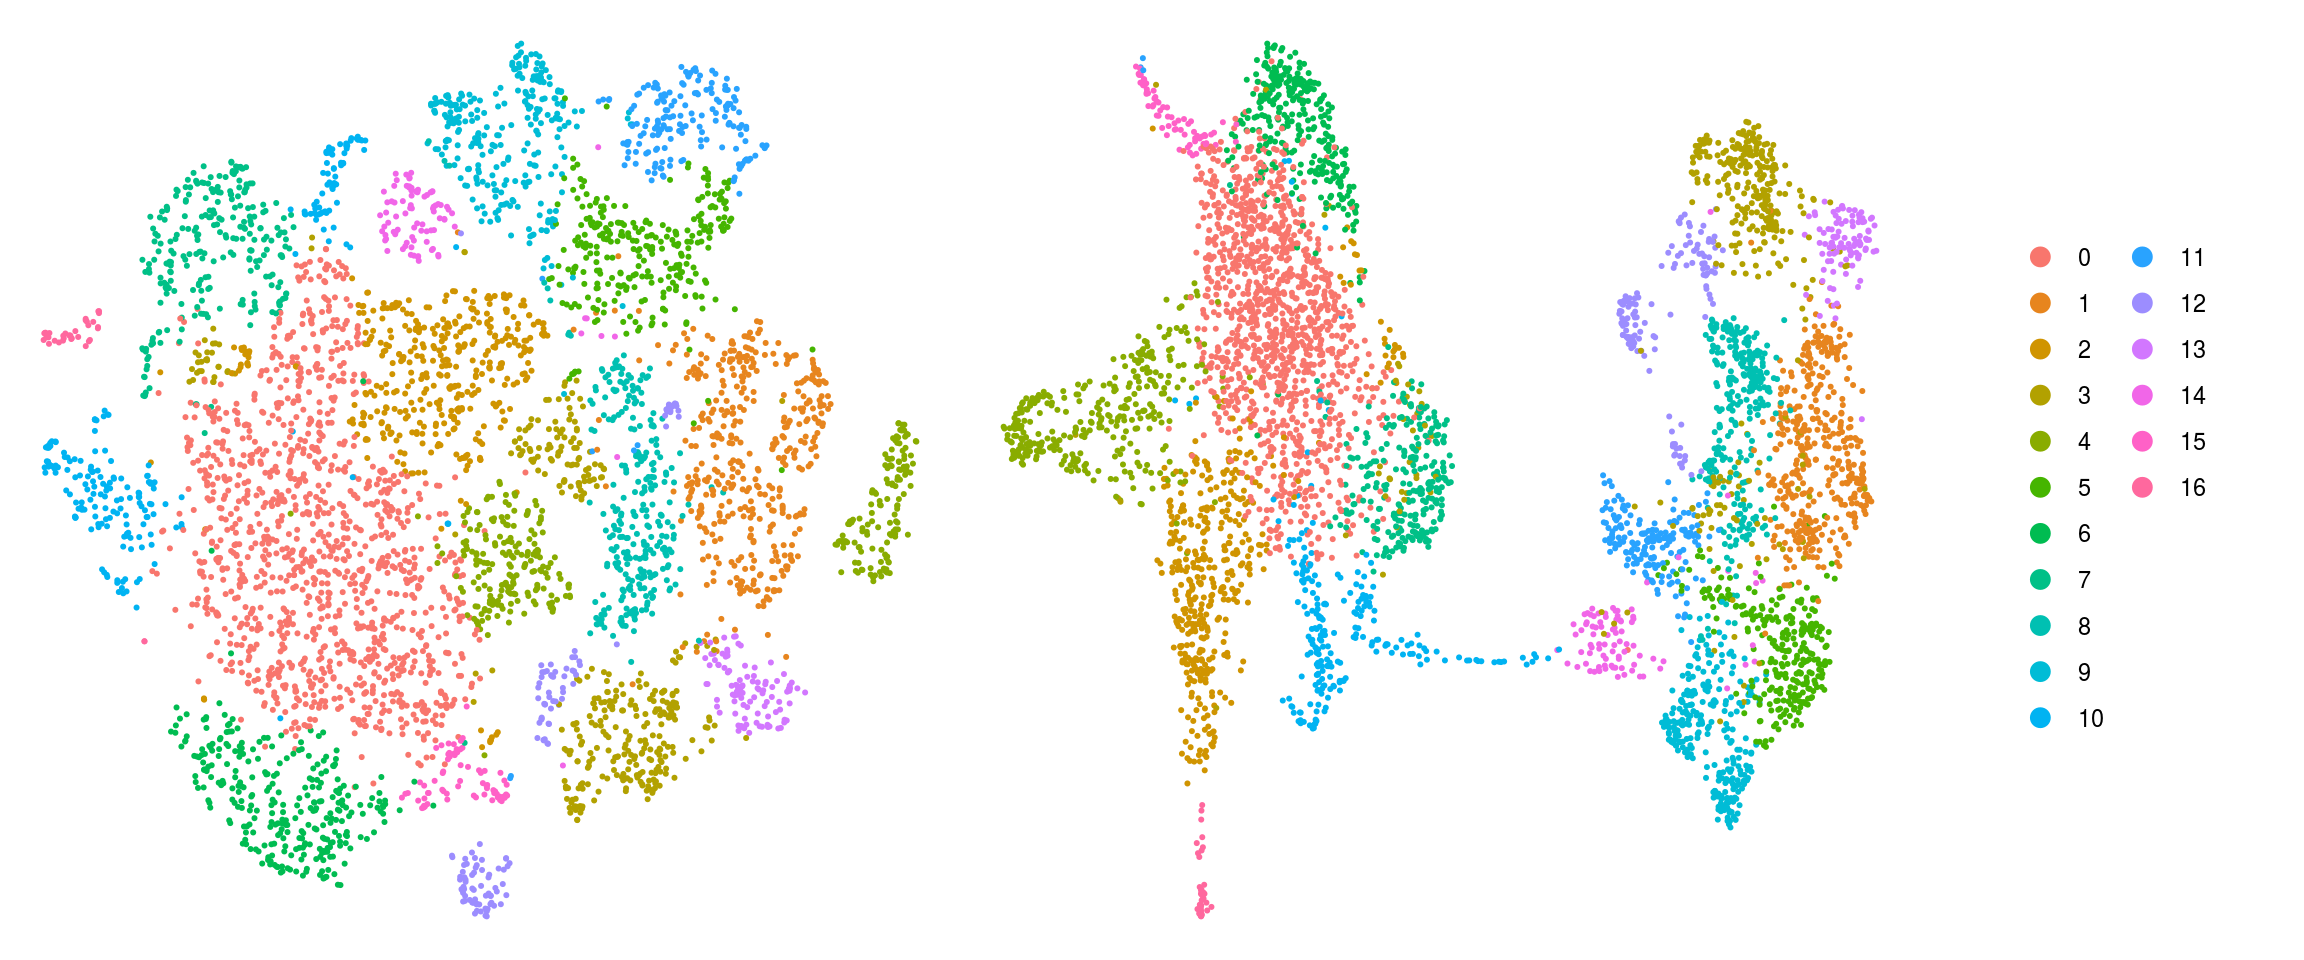
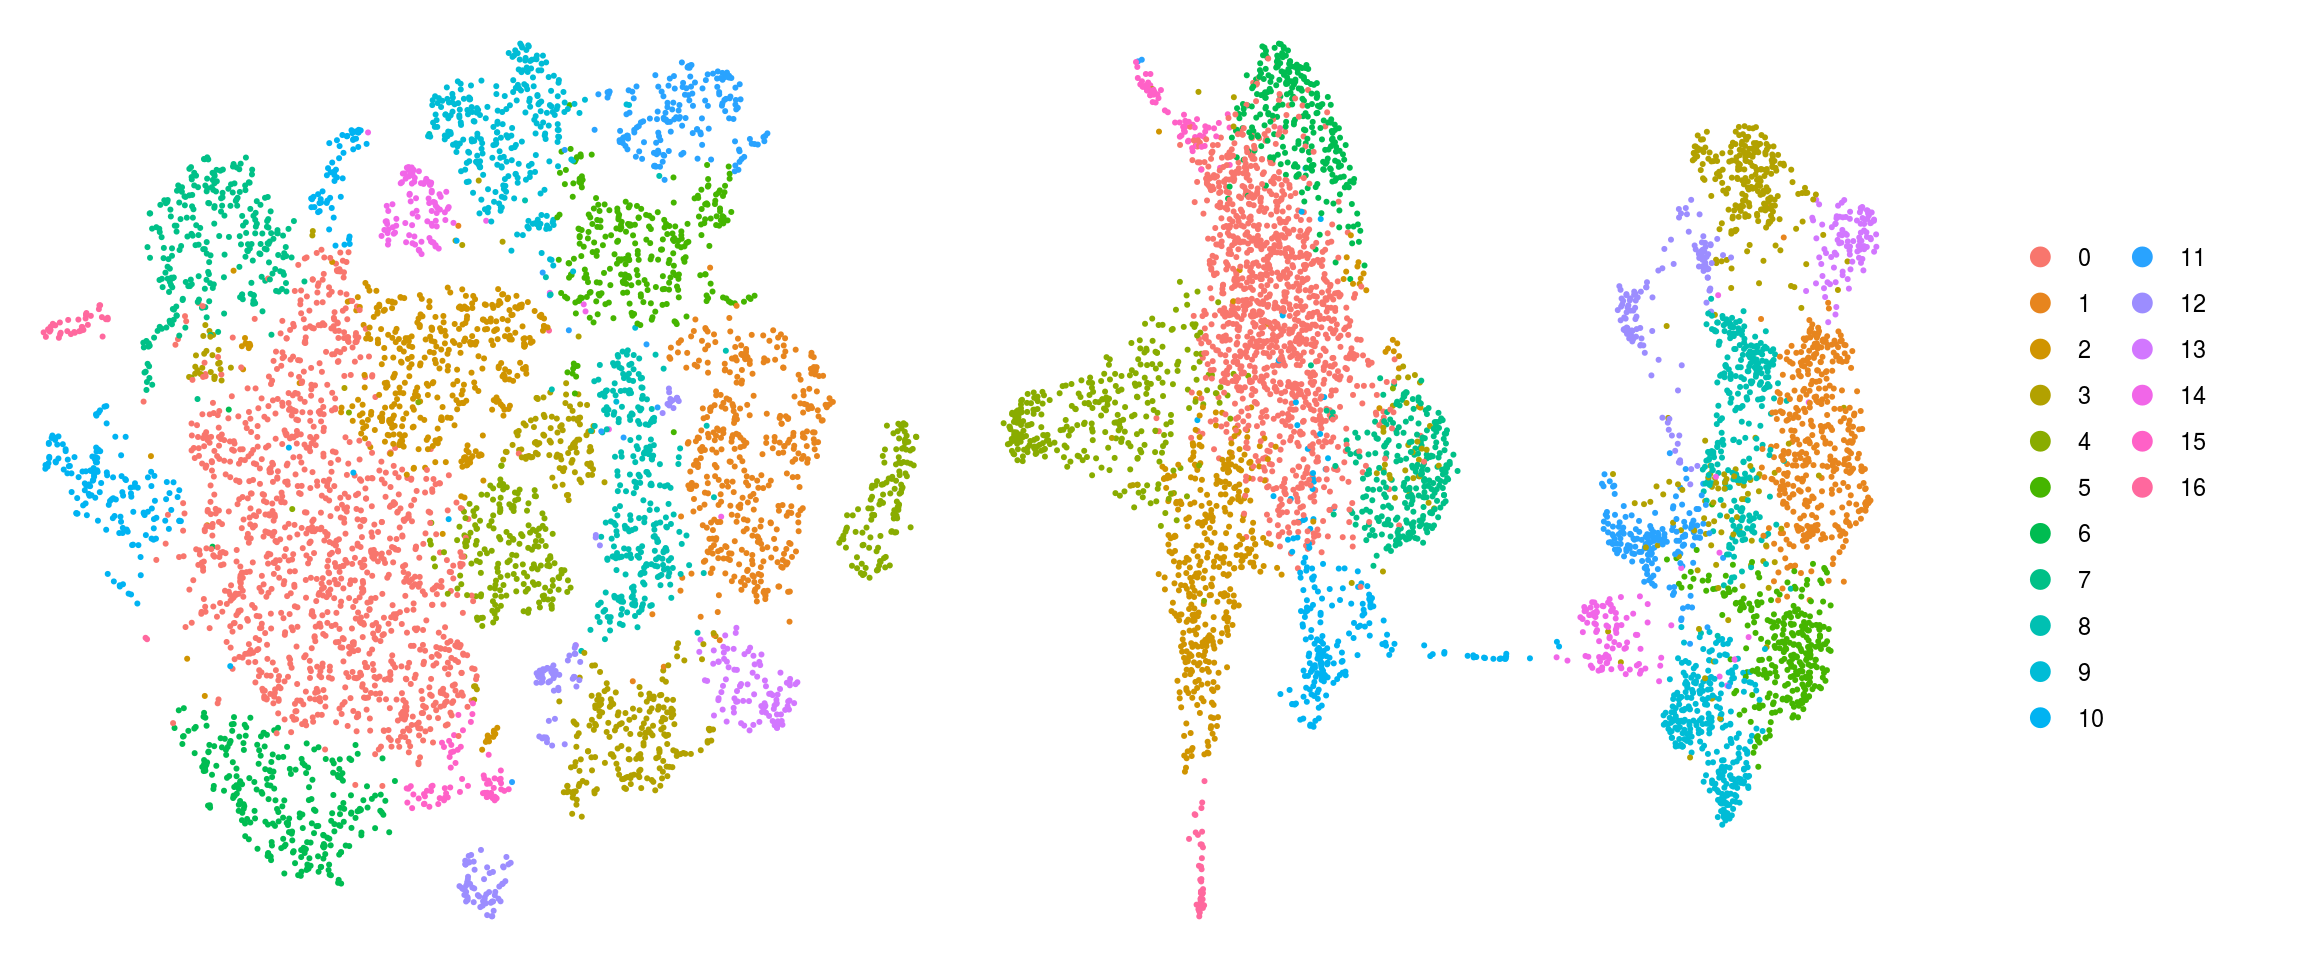
Build site.

diff --git a/docs/05-annotation.html b/docs/05-annotation.html
@@ -394,7 +394,7 @@ div.tocify {
 
 <p>
 <button type="button" class="btn btn-default btn-workflowr btn-workflowr-report" data-toggle="collapse" data-target="#workflowr-report">
-<span class="glyphicon glyphicon-list" aria-hidden="true"></span> workflowr <span class="glyphicon glyphicon-ok text-success" aria-hidden="true"></span>
+<span class="glyphicon glyphicon-list" aria-hidden="true"></span> workflowr <span class="glyphicon glyphicon-exclamation-sign text-danger" aria-hidden="true"></span>
 </button>
 </p>
 <div id="workflowr-report" class="collapse">
@@ -403,7 +403,7 @@ div.tocify {
 <a data-toggle="tab" href="#summary">Summary</a>
 </li>
 <li>
-<a data-toggle="tab" href="#checks"> Checks <span class="glyphicon glyphicon-ok text-success" aria-hidden="true"></span> </a>
+<a data-toggle="tab" href="#checks"> Checks <span class="glyphicon glyphicon-exclamation-sign text-danger" aria-hidden="true"></span> </a>
 </li>
 <li>
 <a data-toggle="tab" href="#versions">Past versions</a>
@@ -412,10 +412,10 @@ div.tocify {
 <div class="tab-content">
 <div id="summary" class="tab-pane fade in active">
 <p>
-<strong>Last updated:</strong> 2020-06-09
+<strong>Last updated:</strong> 2020-06-10
 </p>
 <p>
-<strong>Checks:</strong> <span class="glyphicon glyphicon-ok text-success" aria-hidden="true"></span> 7 <span class="glyphicon glyphicon-exclamation-sign text-danger" aria-hidden="true"></span> 0
+<strong>Checks:</strong> <span class="glyphicon glyphicon-ok text-success" aria-hidden="true"></span> 6 <span class="glyphicon glyphicon-exclamation-sign text-danger" aria-hidden="true"></span> 1
 </p>
 <p>
 <strong>Knit directory:</strong> <code>neural_scRNAseq/</code> <span class="glyphicon glyphicon-question-sign" aria-hidden="true" title="This is the local directory in which the code in this file was executed."> </span>
@@ -479,12 +479,42 @@ This reproducible <a href="http://rmarkdown.rstudio.com">R Markdown</a> analysis
 <div class="panel panel-default">
 <div class="panel-heading">
 <p class="panel-title">
-<a data-toggle="collapse" data-parent="#workflowr-checks" href="#strongCachestrongnone"> <span class="glyphicon glyphicon-ok text-success" aria-hidden="true"></span> <strong>Cache:</strong> none </a>
+<a data-toggle="collapse" data-parent="#workflowr-checks" href="#strongCachestrongdetected"> <span class="glyphicon glyphicon-exclamation-sign text-danger" aria-hidden="true"></span> <strong>Cache:</strong> detected </a>
 </p>
 </div>
-<div id="strongCachestrongnone" class="panel-collapse collapse">
+<div id="strongCachestrongdetected" class="panel-collapse collapse">
 <div class="panel-body">
-<p>Nice! There were no cached chunks for this analysis, so you can be confident that you successfully produced the results during this run.</p>
+The following chunks had caches available:
+<ul>
+<li>
+dim-red
+</li>
+<li>
+load-data
+</li>
+<li>
+load-libs
+</li>
+<li>
+scran-findMarkers
+</li>
+<li>
+scran-markers-heatmap
+</li>
+<li>
+session-info-chunk-inserted-by-workflowr
+</li>
+<li>
+unnamed-chunk-1
+</li>
+<li>
+unnamed-chunk-2
+</li>
+<li>
+unnamed-chunk-3
+</li>
+</ul>
+<p>To ensure reproducibility of the results, delete the cache directory <code>05-annotation_cache</code> and re-run the analysis. To have workflowr automatically delete the cache directory prior to building the file, set <code>delete_cache = TRUE</code> when running <code>wflow_build()</code> or <code>wflow_publish()</code>.</p>
 </div>
 </div>
 </div>
@@ -503,16 +533,16 @@ This reproducible <a href="http://rmarkdown.rstudio.com">R Markdown</a> analysis
 <div class="panel panel-default">
 <div class="panel-heading">
 <p class="panel-title">
-<a data-toggle="collapse" data-parent="#workflowr-checks" href="#strongRepositoryversionstrongahrefhttpsgithubcomkhembachneuralscRNAseqtree7cca30c6a9eb28e96ada238d63d751c51dbc470etargetblank7cca30ca"> <span class="glyphicon glyphicon-ok text-success" aria-hidden="true"></span> <strong>Repository version:</strong> <a href="https://github.com/khembach/neural_scRNAseq/tree/7cca30c6a9eb28e96ada238d63d751c51dbc470e" target="_blank">7cca30c</a> </a>
+<a data-toggle="collapse" data-parent="#workflowr-checks" href="#strongRepositoryversionstrongahrefhttpsgithubcomkhembachneuralscRNAseqtreeb6767a67e1f5e494c3bb27a0eee656dc5298a4actargetblankb6767a6a"> <span class="glyphicon glyphicon-ok text-success" aria-hidden="true"></span> <strong>Repository version:</strong> <a href="https://github.com/khembach/neural_scRNAseq/tree/b6767a67e1f5e494c3bb27a0eee656dc5298a4ac" target="_blank">b6767a6</a> </a>
 </p>
 </div>
[2 lines of base64/hex data omitted]
 <div class="panel-body">
 <p>
 Great! You are using Git for version control. Tracking code development and connecting the code version to the results is critical for reproducibility.
 </p>
 <p>
-The results in this page were generated with repository version <a href="https://github.com/khembach/neural_scRNAseq/tree/7cca30c6a9eb28e96ada238d63d751c51dbc470e" target="_blank">7cca30c</a>. See the <em>Past versions</em> tab to see a history of the changes made to the R Markdown and HTML files.
+The results in this page were generated with repository version <a href="https://github.com/khembach/neural_scRNAseq/tree/b6767a67e1f5e494c3bb27a0eee656dc5298a4ac" target="_blank">b6767a6</a>. See the <em>Past versions</em> tab to see a history of the changes made to the R Markdown and HTML files.
 </p>
 <p>
 Note that you need to be careful to ensure that all relevant files for the analysis have been committed to Git prior to generating the results (you can use <code>wflow_publish</code> or <code>wflow_git_commit</code>). workflowr only checks the R Markdown file, but you know if there are other scripts or data files that it depends on. Below is the status of the Git repository when the results were generated:
@@ -540,6 +570,7 @@ Ignored files:
     Ignored:    analysis/02.1-SampleQC_cache/
     Ignored:    analysis/03-filtering_cache/
     Ignored:    analysis/04-clustering_cache/
+    Ignored:    analysis/05-annotation_cache/
     Ignored:    analysis/sample5_QC_cache/
     Ignored:    data/.DS_Store
     Ignored:    data/._.DS_Store
@@ -605,6 +636,40 @@ Message
 <tbody>
 <tr>
 <td>
+Rmd
+</td>
+<td>
+<a href="https://github.com/khembach/neural_scRNAseq/blob/b6767a67e1f5e494c3bb27a0eee656dc5298a4ac/analysis/05-annotation.Rmd" target="_blank">b6767a6</a>
+</td>
+<td>
+khembach
+</td>
+<td>
+2020-06-10
+</td>
+<td>
+wflow_publish(“analysis/05-annotation.Rmd”, verbose = TRUE)
+</td>
+</tr>
+<tr>
+<td>
+html
+</td>
+<td>
+<a href="https://rawcdn.githack.com/khembach/neural_scRNAseq/419ac731213a1080529b48e43a1e0494cf7a10a5/docs/05-annotation.html" target="_blank">419ac73</a>
+</td>
+<td>
+khembach
+</td>
+<td>
+2020-06-09
+</td>
+<td>
+Build site.
+</td>
+</tr>
+<tr>
+<td>
 html
 </td>
 <td>
@@ -656,7 +721,8 @@ library(RColorBrewer)
 library(viridis)
 library(scran)
 library(Seurat)
-library(SingleCellExperiment)</code></pre>
+library(SingleCellExperiment)
+library(stringr)</code></pre>
 </div>
 <div id="load-data-convert-to-sce" class="section level1">
 <h1>Load data &amp; convert to SCE</h1>
@@ -760,6 +826,46 @@ khembach
 </div>
 </div>
 </div>
+<div id="cell-cycle" class="section level1">
+<h1>Cell cycle</h1>
+<p>We assign each cell a cell cycle scores and visualize them in the DR plots. We use known G2/M and S phase markers that come with the <code>Seurat</code> package. The markers are anticorrelated and cells that to not express the markers are supposed to be in G1 phase.</p>
+<pre class="r"><code># A list of cell cycle markers, from Tirosh et al, 2015, is loaded with Seurat.  We can
+# segregate this list into markers of G2/M phase and markers of S phase
+(s_genes &lt;- cc.genes$s.genes)</code></pre>
+<pre><code> [1] &quot;MCM5&quot;     &quot;PCNA&quot;     &quot;TYMS&quot;     &quot;FEN1&quot;     &quot;MCM2&quot;     &quot;MCM4&quot;    
+ [7] &quot;RRM1&quot;     &quot;UNG&quot;      &quot;GINS2&quot;    &quot;MCM6&quot;     &quot;CDCA7&quot;    &quot;DTL&quot;     
+[13] &quot;PRIM1&quot;    &quot;UHRF1&quot;    &quot;MLF1IP&quot;   &quot;HELLS&quot;    &quot;RFC2&quot;     &quot;RPA2&quot;    
+[19] &quot;NASP&quot;     &quot;RAD51AP1&quot; &quot;GMNN&quot;     &quot;WDR76&quot;    &quot;SLBP&quot;     &quot;CCNE2&quot;   
+[25] &quot;UBR7&quot;     &quot;POLD3&quot;    &quot;MSH2&quot;     &quot;ATAD2&quot;    &quot;RAD51&quot;    &quot;RRM2&quot;    
+[31] &quot;CDC45&quot;    &quot;CDC6&quot;     &quot;EXO1&quot;     &quot;TIPIN&quot;    &quot;DSCC1&quot;    &quot;BLM&quot;     
+[37] &quot;CASP8AP2&quot; &quot;USP1&quot;     &quot;CLSPN&quot;    &quot;POLA1&quot;    &quot;CHAF1B&quot;   &quot;BRIP1&quot;   
+[43] &quot;E2F8&quot;    </code></pre>
+<pre class="r"><code>(g2m_genes &lt;- cc.genes$g2m.genes)</code></pre>
+<pre><code> [1] &quot;HMGB2&quot;   &quot;CDK1&quot;    &quot;NUSAP1&quot;  &quot;UBE2C&quot;   &quot;BIRC5&quot;   &quot;TPX2&quot;    &quot;TOP2A&quot;  
+ [8] &quot;NDC80&quot;   &quot;CKS2&quot;    &quot;NUF2&quot;    &quot;CKS1B&quot;   &quot;MKI67&quot;   &quot;TMPO&quot;    &quot;CENPF&quot;  
+[15] &quot;TACC3&quot;   &quot;FAM64A&quot;  &quot;SMC4&quot;    &quot;CCNB2&quot;   &quot;CKAP2L&quot;  &quot;CKAP2&quot;   &quot;AURKB&quot;  
+[22] &quot;BUB1&quot;    &quot;KIF11&quot;   &quot;ANP32E&quot;  &quot;TUBB4B&quot;  &quot;GTSE1&quot;   &quot;KIF20B&quot;  &quot;HJURP&quot;  
+[29] &quot;CDCA3&quot;   &quot;HN1&quot;     &quot;CDC20&quot;   &quot;TTK&quot;     &quot;CDC25C&quot;  &quot;KIF2C&quot;   &quot;RANGAP1&quot;
+[36] &quot;NCAPD2&quot;  &quot;DLGAP5&quot;  &quot;CDCA2&quot;   &quot;CDCA8&quot;   &quot;ECT2&quot;    &quot;KIF23&quot;   &quot;HMMR&quot;   
+[43] &quot;AURKA&quot;   &quot;PSRC1&quot;   &quot;ANLN&quot;    &quot;LBR&quot;     &quot;CKAP5&quot;   &quot;CENPE&quot;   &quot;CTCF&quot;   
+[50] &quot;NEK2&quot;    &quot;G2E3&quot;    &quot;GAS2L3&quot;  &quot;CBX5&quot;    &quot;CENPA&quot;  </code></pre>
+<pre class="r"><code># match the marker genes to the features
+m &lt;- match(s_genes, str_split(rownames(GetAssayData(so, assay = &quot;RNA&quot;)), 
+                              pattern = &quot;\\.&quot;, simplify = TRUE)[,2])
+s_genes &lt;- rownames(GetAssayData(so, assay = &quot;RNA&quot;))[m]
+s_genes &lt;- s_genes[!is.na(s_genes)] 
+m &lt;- match(g2m_genes, str_split(rownames(GetAssayData(so, assay = &quot;RNA&quot;)), 
+                              pattern = &quot;\\.&quot;, simplify = TRUE)[,2])
+g2m_genes &lt;- rownames(GetAssayData(so, assay = &quot;RNA&quot;))[m]
+g2m_genes &lt;- g2m_genes[!is.na(g2m_genes)] 
+
+# change the default assay to the raw counts
+DefaultAssay(so) &lt;- &quot;RNA&quot;
+so &lt;- CellCycleScoring(so, s.features = s_genes, g2m.features = g2m_genes, 
+                       set.ident = TRUE)
+# change back to integrated
+DefaultAssay(so) &lt;- &quot;integrated&quot;</code></pre>
+</div>
 <div id="dr-colored-by-cluster-id" class="section level1 tabset">
 <h1>DR colored by cluster ID</h1>
 <pre class="r"><code>cs &lt;- sample(colnames(so), 5e3)
@@ -768,7 +874,7 @@ khembach
         guides(col = guide_legend(nrow = 11, 
             override.aes = list(size = 3, alpha = 1))) +
         theme_void() + theme(aspect.ratio = 1)
-ids &lt;- c(&quot;cluster_id&quot;, &quot;group_id&quot;, &quot;sample_id&quot;)
+ids &lt;- c(&quot;cluster_id&quot;, &quot;group_id&quot;, &quot;sample_id&quot;, &quot;Phase&quot;)
 for (id in ids) {
     cat(&quot;## &quot;, id, &quot;\n&quot;)
     p1 &lt;- .plot_dr(so, &quot;tsne&quot;, id)
@@ -805,6 +911,17 @@ Date
 </tr>
 </thead>
 <tbody>
+<tr>
+<td>
+<a href="https://github.com/khembach/neural_scRNAseq/blob/419ac731213a1080529b48e43a1e0494cf7a10a5/docs/figure/05-annotation.Rmd/dim-red-1.png" target="_blank">419ac73</a>
+</td>
+<td>
+khembach
+</td>
+<td>
+2020-06-09
+</td>
+</tr>
 <tr>
 <td>
 <a href="https://github.com/khembach/neural_scRNAseq/blob/a4d0e04302b05ad6152378accb91e9c994394e42/docs/figure/05-annotation.Rmd/dim-red-1.png" target="_blank">a4d0e04</a>
@@ -848,6 +965,17 @@ Date
 <tbody>
 <tr>
 <td>
+<a href="https://github.com/khembach/neural_scRNAseq/blob/419ac731213a1080529b48e43a1e0494cf7a10a5/docs/figure/05-annotation.Rmd/dim-red-2.png" target="_blank">419ac73</a>
+</td>
+<td>
+khembach
+</td>
+<td>
+2020-06-09
+</td>
+</tr>
+<tr>
+<td>
 <a href="https://github.com/khembach/neural_scRNAseq/blob/a4d0e04302b05ad6152378accb91e9c994394e42/docs/figure/05-annotation.Rmd/dim-red-2.png" target="_blank">a4d0e04</a>
 </td>
 <td>
@@ -889,6 +1017,17 @@ Date
 <tbody>
 <tr>
 <td>
+<a href="https://github.com/khembach/neural_scRNAseq/blob/419ac731213a1080529b48e43a1e0494cf7a10a5/docs/figure/05-annotation.Rmd/dim-red-3.png" target="_blank">419ac73</a>
+</td>
+<td>
+khembach
+</td>
+<td>
+2020-06-09
+</td>
+</tr>
+<tr>
+<td>
 <a href="https://github.com/khembach/neural_scRNAseq/blob/a4d0e04302b05ad6152378accb91e9c994394e42/docs/figure/05-annotation.Rmd/dim-red-3.png" target="_blank">a4d0e04</a>
 </td>
 <td>
@@ -902,6 +1041,89 @@ khembach
 </table>
 </div>
 </div>
+</div>
+<div id="phase" class="section level2">
+<h2>Phase</h2>
+<p><img src="figure/05-annotation.Rmd/dim-red-4.png" width="1152" style="display: block; margin: auto;" /></p>
+</div>
+</div>
+<div id="find-markers-using-scran" class="section level1">
+<h1>Find markers using <code>scran</code></h1>
+<p>We identify candidate marker genes for each cluster that enable a separation of that group from all other groups.</p>
+<pre class="r"><code>scran_markers &lt;- findMarkers(sce, 
+    groups = sce$cluster_id, block = sce$sample_id, 
+    direction = &quot;up&quot;, lfc = 2, full.stats = TRUE)</code></pre>
+<div id="heatmap-of-mean-marker-exprs.-by-cluster" class="section level2">
+<h2>Heatmap of mean marker-exprs. by cluster</h2>
+<p>We aggregate the cells to pseudobulks and plot the average expression of the condidate marker genes in each of the clusters.</p>
+<pre class="r"><code>gs &lt;- lapply(scran_markers, function(u) rownames(u)[u$Top == 1])
+## candidate cluster markers
+lapply(gs, function(x) str_split(x, pattern = &quot;\\.&quot;, simplify = TRUE)[,2])</code></pre>
+<pre><code>$`0`
+[1] &quot;SAMD11&quot; &quot;NEFL&quot;   &quot;VIM&quot;    &quot;CKB&quot;    &quot;TTYH1&quot; 
+
+$`1`
+[1] &quot;SAMD11&quot; &quot;STMN2&quot;  &quot;CRABP1&quot; &quot;ZFHX3&quot;  &quot;HOXB8&quot;  &quot;MT-CO2&quot;
+
+$`2`
+[1] &quot;S100A10&quot; &quot;S100A11&quot; &quot;CLU&quot;     &quot;VIM&quot;     &quot;TAGLN&quot;   &quot;CKB&quot;     &quot;TPM1&quot;   
+
+$`3`
+[1] &quot;SAMD11&quot;  &quot;STMN2&quot;   &quot;SNCG&quot;    &quot;RTN1&quot;    &quot;HOXB5&quot;   &quot;ONECUT2&quot; &quot;PCP4&quot;   
+[8] &quot;MT-CO2&quot; 
+
+$`4`
+[1] &quot;HMGB2&quot; &quot;VIM&quot;   &quot;CKB&quot;   &quot;TOP2A&quot;
+
+$`5`
+[1] &quot;STMN2&quot;  &quot;RTN1&quot;   &quot;MEIS2&quot;  &quot;HOXB9&quot;  &quot;PCP4&quot;   &quot;MT-ND3&quot;
+
+$`6`
+[1] &quot;C1orf61&quot; &quot;SPP1&quot;    &quot;FABP5&quot;   &quot;VIM&quot;     &quot;HOXB9&quot;   &quot;TTYH1&quot;   &quot;MT-ND4&quot; 
+
+$`7`
+[1] &quot;CLU&quot;   &quot;LY6H&quot;  &quot;VIM&quot;   &quot;TAGLN&quot; &quot;DLK1&quot;  &quot;CKB&quot;   &quot;METRN&quot;
+
+$`8`
+[1] &quot;SAMD11&quot; &quot;TAC1&quot;   &quot;STMN2&quot;  &quot;ZFHX3&quot;  &quot;HOXB8&quot;  &quot;LAMP5&quot;  &quot;MT-CO2&quot;
+
+$`9`
+[1] &quot;SAMD11&quot; &quot;FOXP1&quot;  &quot;STMN2&quot;  &quot;PCP4&quot;  
+
+$`10`
+[1] &quot;SAMD11&quot;   &quot;VGF&quot;      &quot;EIF4EBP1&quot; &quot;ANXA1&quot;    &quot;VIM&quot;      &quot;CKB&quot;      &quot;FTL&quot;     
+
+$`11`
+[1] &quot;ENC1&quot;    &quot;STMN2&quot;   &quot;NFIB&quot;    &quot;HOXB8&quot;   &quot;HOXB9&quot;   &quot;MT-RNR2&quot;
+
+$`12`
+[1] &quot;TAC1&quot;  &quot;STMN2&quot;
+
+$`13`
+[1] &quot;STMN2&quot;  &quot;SNCG&quot;   &quot;MPPED2&quot; &quot;PCP4&quot;  
+
+$`14`
+[1] &quot;STMN2&quot; &quot;DDIT3&quot;
+
+$`15`
+[1] &quot;C1orf61&quot; &quot;HES6&quot;    &quot;SOX2&quot;    &quot;VIM&quot;     &quot;CKB&quot;    
+
+$`16`
+[1] &quot;S100A11&quot; &quot;COL3A1&quot;  &quot;COL1A1&quot; </code></pre>
+<pre class="r"><code>sub &lt;- sce[unique(unlist(gs)), ]
+pbs &lt;- aggregateData(sub, assay = &quot;logcounts&quot;, by = &quot;cluster_id&quot;, fun = &quot;mean&quot;)
+mat &lt;- t(muscat:::.scale(assay(pbs)))
+## remove the Ensembl ID from the gene names
+colnames(mat) &lt;- str_split(colnames(mat), pattern = &quot;\\.&quot;, simplify = TRUE)[,2] 
+Heatmap(mat,
+    name = &quot;scaled avg.\nexpression&quot;,
+    col = viridis(10),
+    cluster_rows = FALSE,
+    cluster_columns = FALSE,
+    row_names_side = &quot;left&quot;,
+    row_title = &quot;cluster_id&quot;,
+    rect_gp = gpar(col = &quot;white&quot;))</code></pre>
+<p><img src="figure/05-annotation.Rmd/scran-markers-heatmap-1.png" width="1152" style="display: block; margin: auto;" /></p>
 <br>
 <p>
 <button type="button" class="btn btn-default btn-workflowr btn-workflowr-sessioninfo" data-toggle="collapse" data-target="#workflowr-sessioninfo" style="display: block;">
